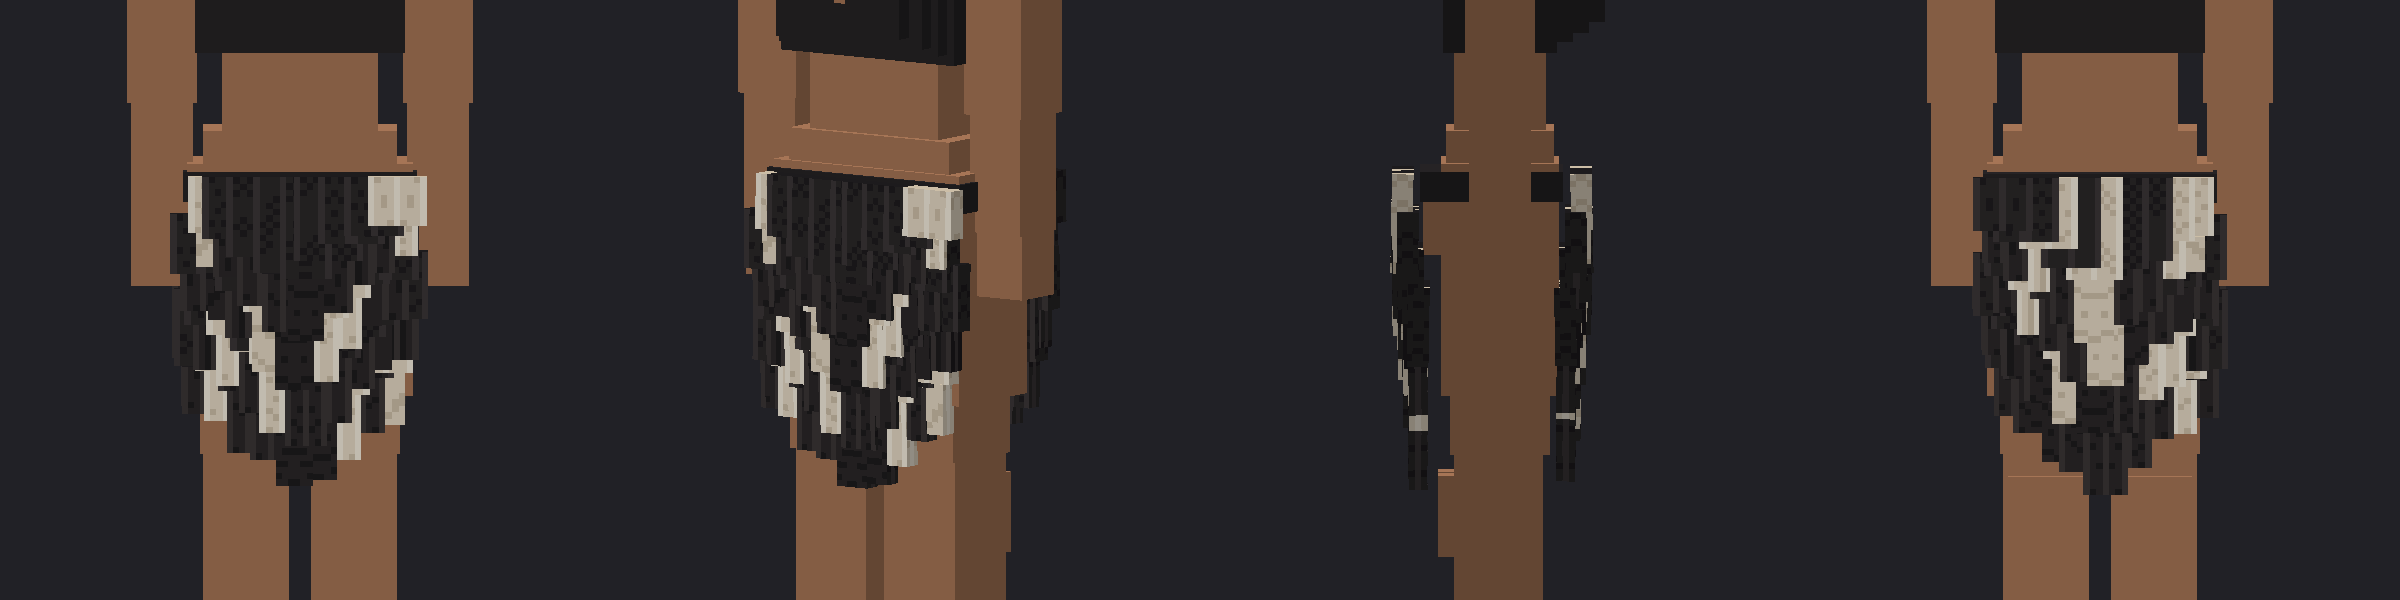
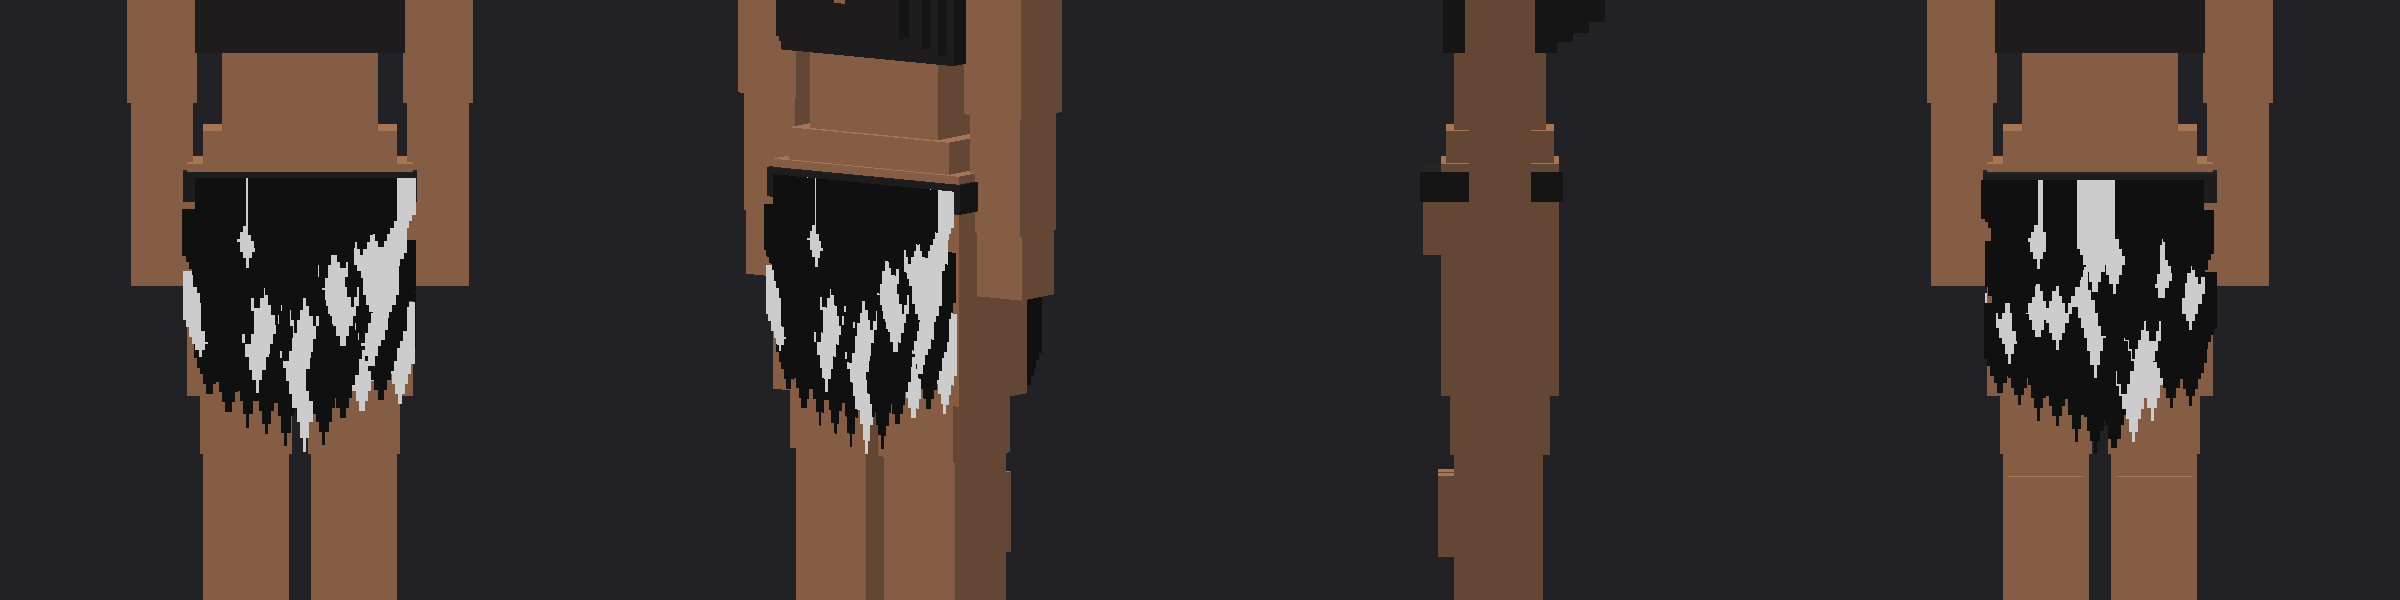
Kemira: falda de plumas 2D chicas, blanco y negro puros
Claude-Session: https://claude.ai/code/session_01JLSuk79QgXUucDMTiBYitK

diff --git a/taller/personajes/kemira.py b/taller/personajes/kemira.py
@@ -270,8 +270,8 @@ def top_v(t):
 
 
 def ropa(p, L):
-    """Un top negro con escote en V que rodea el pecho y la espalda, y una falda de plumas como taparrabo (paneles
-    adelante y atras en capas, en V; los costados sin plumas)."""
+    """Un top negro con escote en V que rodea el pecho y la espalda, y una falda de plumas como taparrabo: plumas 2D
+    chicas de blanco y negro puros, en capas adelante y atras, en V; los costados sin plumas."""
     g = "Body/ropa"
     p.caja(g, "top", (-3.9, 22.3, -2.1), (3.9, 26.0, 2.1), top_v, dens=D, luz=False)
     for k, (x, y0, y1, z) in enumerate(BUSTO):
@@ -280,34 +280,32 @@ def ropa(p, L):
     # por fuera), mas largas al medio (en V); a los costados solo el cinto
     p.caja(g, "cinto", (-4.35, L + 0.8, -2.35), (4.35, L + 1.9, 2.95), lambda t: hex_(NEGRO_ROPA), dens=D, luz=False)
     k = 0
-    for lado, zs, phi in ((-1, -2.4, 180.0), (1, 3.0, 0.0)):
-        for capa in range(4):
-            y = L + 1.8 - capa * 1.4
-            n = 9
+    for lado, zs in ((-1, -2.4), (1, 3.0)):
+        for capa in range(5):
+            y = L + 1.7 - capa * 1.15
+            n = 11
             for i in range(n):
-                x = -3.6 + 7.2 * (i + 0.5 * (capa % 2)) / (n - 0.5)
-                largo = 3.0 + 0.5 * capa + 3.2 * (1 - min(1.0, abs(x) / 3.8)) ** 1.3 + 0.6 * (_azar(k + 900) - 0.5)
-                z = zs + lado * 0.2 * (3 - capa)                       # pegadas: la capa de arriba apenas por fuera
-                tono = CREMA_PLUMA if _azar(k + 920) < 0.35 else NEGRO
-                poner_figura(p, f"pluma_falda{k}", (x, y, z), largo, 1.9 + 0.7 * _azar(k + 950), (179, phi, 0),
-                             tono, None, grosor=0.8, dobla=2, grupo="Body/falda", luz=False, pintor=pluma_tex(tono))
+                x = -3.7 + 7.4 * (i + 0.5 * (capa % 2)) / (n - 0.5)
+                largo = 2.4 + 0.3 * capa + 2.2 * (1 - min(1.0, abs(x) / 3.9)) ** 1.3 + 0.5 * (_azar(k + 900) - 0.5)
+                ancho = 1.0 + 0.4 * _azar(k + 950)
+                z = zs + lado * (0.06 * (4 - capa) + 0.02 * (i % 2))   # planos encimados: la capa de arriba por fuera
+                color_p = BLANCO_PURO if _azar(k + 920) < 0.35 else NEGRO_PURO
+                p.caja("Body/falda", f"pluma_falda{k}", (x - ancho / 2, y - largo, z), (x + ancho / 2, y, z),
+                       pluma_plana(color_p), dens=8, luz=False)
                 k += 1
 
 
-def pluma_tex(tono):
-    """Textura de pluma: raquis claro al medio, barbas en diagonal un poco mas oscuras y el canto mas claro."""
+BLANCO_PURO, NEGRO_PURO = "#FFFFFF", "#141414"
+
+
+def pluma_plana(col):
+    """Pluma 2D de color puro: un plano recortado con la punta hacia abajo (se angosta en el ultimo tramo)."""
     def p(t):
-        v = (t.fila_abajo + 0.5) / t.th
-        u = (t.i + 0.5) / t.tw * 2 - 1
-        if t.cara in ("up", "down"):
-            return hex_(tono["s"])
-        if abs(u) < 0.12:
-            return hex_(tono["l"])
-        if abs(u) > 0.85:
-            return hex_(tono["l"])
-        if ((v * 7 + abs(u) * 2.5) % 1.0) < 0.22:
-            return hex_(tono["s"])
-        return hex_(tono["b"])
+        f = (t.j + 0.5) / t.th                                       # 0 arriba, 1 en la punta de abajo
+        u = abs((t.i + 0.5) / t.tw * 2 - 1)
+        if u > 1.0 - max(0.0, f - 0.55) / 0.45:
+            return TRANSPARENTE
+        return hex_(col)
     return p
 
 
